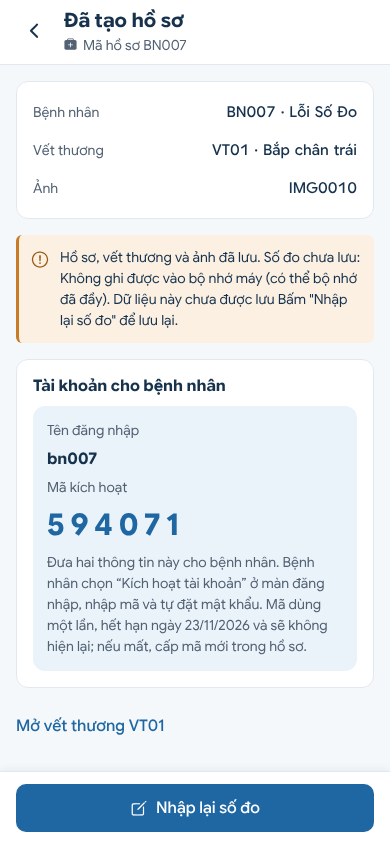
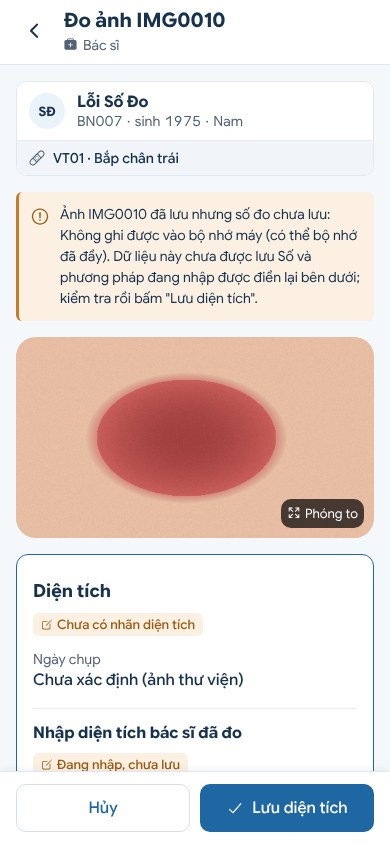
Benh nhan moi tu anh: mo thang B05, kiem lien ket truoc khi xoa anh cho (phuong an 2)
- verifyLinked: chi xoa anh cho khi anh co dung patientId, woundId; sai thi giu anh cho, khong ghi them
- B09b bo man Da tao ho so, mo thang B05; ghi so do loi mo B11 dien san
- Kich ban moi 67 ca (them NP-33b, NP-33c); sua kich ban tb-8 theo Stage 9B
- Cap nhat 5 bao cao: DI-1, DI-2, UX-1 da duyet

Claude-Session: https://claude.ai/code/session_014o3dSirzR9zFNDyfuYFh5m

diff --git a/src/app/capture-new-patient.tsx b/src/app/capture-new-patient.tsx
@@ -4,7 +4,6 @@ import { router } from 'expo-router';
 import { useEffect, useRef, useState } from 'react';
 import { Pressable, View } from 'react-native';
 
-import { ActivationCode } from '@/components/ActivationCode';
 import { NoAccess } from '@/components/Guard';
 import { Text } from '@/components/Text';
 import { Button, Card, Chip, Choices, Field, Header, InfoRow, Muted, Notice, Screen, SectionTitle, Segmented, TextLink } from '@/components/ui';
@@ -12,11 +11,10 @@ import { confirm } from '@/lib/dialog';
 import { fmtDate, fmtDateTime } from '@/lib/format';
 import { parseArea } from '@/lib/naming';
 import { duplicateView, EMPTY_PENDING_FORM, validateNewPatientForm, type NewPatientErrors, type PendingPatientForm } from '@/lib/pendingCapture';
-import { DuplicatePatientError, useLookups, useStore, type Activation } from '@/lib/store';
+import { DuplicatePatientError, useLookups, useStore } from '@/lib/store';
 import type { Patient, Wound, WoundImage } from '@/lib/types';
 import { C, T } from '@/theme';
 
-type Done = { patient: Patient; wound: Wound; image: WoundImage; activation?: Activation; existing: boolean; labelError?: string; areaText: string; method: string };
 
 /**
  * B09b – Tạo hồ sơ từ ảnh vừa chụp (chỉ bác sĩ). Mở từ B10 ở luồng "Chụp cho bệnh nhân mới", hoặc từ thẻ "Ảnh chờ tạo hồ sơ" ở B09.
@@ -31,7 +29,7 @@ export default function CaptureNewPatient() {
   const [err, setErr] = useState<string | null>(null);
   const [busy, setBusy] = useState(false);
   const lock = useRef(false);
-  const [done, setDone] = useState<Done | null>(null);
+  const [done, setDone] = useState(false);
   const [dup, setDup] = useState<Patient | null>(null);
   const [dupWound, setDupWound] = useState('');
 
@@ -45,30 +43,6 @@ export default function CaptureNewPatient() {
   }, [form, heldId, done]);
 
   if (me?.role !== 'doctor') return <NoAccess />;
-
-  if (done) {
-    const goWound = () => router.replace({ pathname: '/wounds/[id]', params: { id: done.wound.id } });
-    return (
-      <Screen header={<Header back title={done.existing ? 'Đã gắn ảnh vào hồ sơ' : 'Đã tạo hồ sơ'} subtitle={`Mã hồ sơ ${done.patient.code}`} />}
-        footer={done.labelError
-          ? <Button label="Nhập lại số đo" icon="create-outline" onPress={() => router.replace({ pathname: '/images/[id]', params: { id: done.image.id, nhapLai: done.areaText, phuongPhap: done.method, loi: done.labelError } })} />
-          : <Button label={`Mở vết thương ${done.wound.code}`} icon="arrow-forward" onPress={goWound} />}>
-        <Card>
-          <InfoRow label="Bệnh nhân" value={`${done.patient.code} · ${done.patient.name}`} />
-          <InfoRow label="Vết thương" value={`${done.wound.code} · ${done.wound.location}`} />
-          <InfoRow label="Ảnh" value={done.image.id} />
-        </Card>
-        {done.labelError ? <Notice tone="amber">{`Hồ sơ, vết thương và ảnh đã lưu. Số đo chưa lưu: ${done.labelError} Bấm "Nhập lại số đo" để lưu lại.`}</Notice> : null}
-        {done.activation ? (
-          <Card>
-            <Text style={{ fontWeight: '700', color: C.text }}>Tài khoản cho bệnh nhân</Text>
-            <ActivationCode activation={done.activation} />
-          </Card>
-        ) : null}
-        {done.labelError ? <TextLink label={`Mở vết thương ${done.wound.code}`} onPress={goWound} /> : null}
-      </Screen>
-    );
-  }
 
   if (!held) {
     return (
@@ -94,6 +68,15 @@ export default function CaptureNewPatient() {
     catch (e) { return e instanceof Error ? e.message : String(e); }
   };
 
+  // Lưu xong (hồ sơ, vết, ảnh đã ghi và đã kiểm liên kết): mở thẳng B05 của vết thương (đặc tả bước 10, người dùng chọn 16/11/2026).
+  // Ghi số đo lỗi thì mở B11 của đúng ảnh, điền sẵn số đo để lưu lại (như B10). Mã kích hoạt không hiện ở luồng này;
+  // tài khoản bệnh nhân vẫn được tạo như B03, bác sĩ cấp mã ở hồ sơ (B04, "Cấp mã kích hoạt").
+  const finish = (r: { wound: Wound; image: WoundImage }, labelError?: string) => {
+    setDone(true);
+    if (labelError) router.replace({ pathname: '/images/[id]', params: { id: r.image.id, nhapLai: held.areaText, phuongPhap: held.method, loi: labelError } });
+    else router.replace({ pathname: '/wounds/[id]', params: { id: r.wound.id } });
+  };
+
   const create = async () => {
     if (lock.current || busy) return;
     const v = validateNewPatientForm(form);
@@ -103,7 +86,7 @@ export default function CaptureNewPatient() {
       await updatePendingForm(form).catch(() => {});
       const r = await commitPendingCapture({ kind: 'new', form });
       const labelError = r.reused ? undefined : await applyLabel(r.image);
-      setDone({ ...r, existing: !!r.reused, labelError, areaText: held.areaText, method: held.method });
+      finish(r, labelError);
     } catch (e) {
       if (e instanceof DuplicatePatientError) { setDup(e.duplicate); setDupWound(''); setErr(null); }
       else setErr(`${e instanceof Error ? e.message : String(e)} Ảnh và thông tin đã nhập vẫn giữ nguyên, có thể bấm lưu lại.`);
@@ -128,7 +111,7 @@ export default function CaptureNewPatient() {
         try {
           const r = await commitPendingCapture(dupWound === 'new' ? { kind: 'existing', patientId: dup.id, woundLocation: newLoc } : { kind: 'existing', patientId: dup.id, woundId: dupWound });
           const labelError = r.reused ? undefined : await applyLabel(r.image);
-          setDone({ ...r, existing: true, labelError, areaText: held.areaText, method: held.method });
+          finish(r, labelError);
         } catch (e) { setErr(`${e instanceof Error ? e.message : String(e)} Ảnh vẫn chờ, chưa gắn vào hồ sơ nào.`); }
         finally { lock.current = false; setBusy(false); }
       })();

diff --git a/src/lib/store.tsx b/src/lib/store.tsx
@@ -15,7 +15,7 @@ import { CLOSURE_CONFIRM_DAYS, addDays, isScheduled, localDay } from './course';
 import { CARE_ITEMS, LIFECYCLE } from './maintenance';
 import { buildFilename } from './naming';
 import { archiveBlocker, isArchived, splitDoctorPatientPatch, validatePatientEdit, validateWoundLocation } from './patientRecord';
-import { committedImageOf, EMPTY_PENDING_FORM, findPhoneDuplicate, isPendingCapture, validateNewPatientForm, type PendingCapture, type PendingPatientForm } from './pendingCapture';
+import { committedImageOf, EMPTY_PENDING_FORM, verifyLinked, findPhoneDuplicate, isPendingCapture, validateNewPatientForm, type PendingCapture, type PendingPatientForm } from './pendingCapture';
 import { createSeed, DEMO_ASSETS } from './seed';
 import type {
   Account, AppData, Device, DeviceLifecycle, DeviceLinkLog, DeviceSession, Evaluation, Patient, SessionNote, SymptomReport, TreatmentPlan, Wound, WoundImage,
@@ -631,8 +631,10 @@ export function StoreProvider({ children }: { children: ReactNode }) {
       const held = mine(actor.id);
       if (!held) throw new Error('Không còn ảnh chờ gắn hồ sơ. Chụp lại từ màn Chụp ảnh.');
       // Ảnh này đã được ghi ở lần trước (ví dụ ghi xong nhưng chưa kịp xóa bản chờ): không tạo lần hai, trả lại bản đã có.
-      const already = committedImageOf(dataRef.current, held);
-      if (already) {
+      if (committedImageOf(dataRef.current, held)) {
+        // Chỉ xóa ảnh chờ khi ảnh đã có liên kết đúng (vết tồn tại, cùng hồ sơ); sai liên kết thì giữ ảnh chờ và báo, không ghi thêm.
+        const already = verifyLinked(dataRef.current, held.capture.captureId);
+        if (!already) throw new Error('Ảnh của lần chụp này đã có trong dữ liệu nhưng liên kết hồ sơ, vết thương chưa đúng. Ảnh chờ vẫn giữ; không ghi thêm bản nào.');
         const w = dataRef.current.wounds.find(x => x.id === already.woundId)!;
         const p = dataRef.current.patients.find(x => x.id === already.patientId)!;
         await clearPendingStorage(held);
@@ -719,6 +721,11 @@ export function StoreProvider({ children }: { children: ReactNode }) {
         };
       });
       written.length = 0;
+      // Xác nhận lại trên dữ liệu vừa ghi: ảnh có đúng patient_id, wound_id, vết thuộc đúng hồ sơ. Chưa xác nhận được thì giữ ảnh chờ;
+      // lần bấm lại sẽ nhận ra ảnh theo captureId (không tạo bản ghi thứ hai).
+      if (!verifyLinked(dataRef.current, held.capture.captureId, { patientId: patient.id, woundId: wound.id })) {
+        throw new Error('Đã ghi nhưng chưa xác nhận được ảnh gắn đúng hồ sơ và vết thương. Ảnh chờ vẫn giữ; bấm lưu lại để kiểm tra, không tạo bản ghi trùng.');
+      }
       await clearPendingStorage(held);
       return { patient, wound, image, activation };
     } catch (e) {

diff --git a/src/lib/pendingCapture.test.ts b/src/lib/pendingCapture.test.ts
@@ -1,7 +1,7 @@
 // Chạy: node src/lib/pendingCapture.test.ts
 // Luồng "Chụp cho bệnh nhân mới": so trùng hồ sơ theo đúng quy tắc của addPatient, kiểm biểu mẫu, khóa chống ghi lặp, đếm bộ lọc B09.
 import assert from 'node:assert/strict';
-import { activeFilterCount, committedImageOf, duplicateView, EMPTY_PENDING_FORM, findPhoneDuplicate, isPendingCapture, validateNewPatientForm } from './pendingCapture.ts';
+import { activeFilterCount, committedImageOf, verifyLinked, duplicateView, EMPTY_PENDING_FORM, findPhoneDuplicate, isPendingCapture, validateNewPatientForm } from './pendingCapture.ts';
 
 const P = (x: object) => ({ id: 'p-1', code: 'BN001', name: 'Nguyễn Văn A', birthYear: 1958, sex: 'Nam', phone: '09xx xxx 001', doctorId: 'u-bs1', researchConsent: true, createdAt: '2026-10-01', ...x }) as never;
 const all = [P({}), P({ id: 'p-9', code: 'BN009', name: 'Người Khác', phone: '0933 444 555', doctorId: 'u-bs2' }), P({ id: 'p-8', code: 'BN008', phone: '', doctorId: 'u-bs1' })];
@@ -39,6 +39,17 @@ assert.ok(validateNewPatientForm(f({ name: 'A', birthYear: '1970', woundLocation
 const cap = { capture: { captureId: 'CAP-1' } } as never;
 assert.equal(committedImageOf({ images: [{ id: 'IMG1', capture: { captureId: 'CAP-1' } }] } as never, cap)?.id, 'IMG1');
 assert.equal(committedImageOf({ images: [{ id: 'IMG1', capture: { captureId: 'CAP-2' } }, { id: 'IMG0' }] } as never, cap), undefined);
+
+// Xác nhận liên kết trước khi xóa ảnh chờ: ảnh có captureId, vết tồn tại và cùng hồ sơ, đúng patient_id và wound_id mong đợi.
+const D = { patients: [{ id: 'p-1' }, { id: 'p-2' }], wounds: [{ id: 'w-1', patientId: 'p-1' }, { id: 'w-2', patientId: 'p-2' }], images: [{ id: 'IMG1', woundId: 'w-1', patientId: 'p-1', capture: { captureId: 'CAP-1' } }] } as never;
+assert.equal(verifyLinked(D, 'CAP-1')?.id, 'IMG1');
+assert.equal(verifyLinked(D, 'CAP-1', { patientId: 'p-1', woundId: 'w-1' })?.id, 'IMG1');
+assert.equal(verifyLinked(D, 'CAP-1', { patientId: 'p-2', woundId: 'w-1' }), null);
+assert.equal(verifyLinked(D, 'CAP-1', { patientId: 'p-1', woundId: 'w-2' }), null);
+assert.equal(verifyLinked(D, 'CAP-9'), null);
+assert.equal(verifyLinked({ ...(D as object), images: [{ id: 'IMG1', woundId: 'w-2', patientId: 'p-1', capture: { captureId: 'CAP-1' } }] } as never, 'CAP-1'), null, 'gắn chéo hồ sơ');
+assert.equal(verifyLinked({ ...(D as object), wounds: [] } as never, 'CAP-1'), null, 'vết không tồn tại');
+assert.equal(verifyLinked({ ...(D as object), patients: [] } as never, 'CAP-1'), null, 'hồ sơ không tồn tại');
 
 // Ảnh chờ đọc từ bộ nhớ máy: thiếu trường thì bỏ qua.
 const good = { id: 'CHO-1', doctorId: 'u-bs1', uri: 'data:x', captureDate: '2026-11-16', capture: { captureId: 'CAP-1' }, form: EMPTY_PENDING_FORM };

diff --git a/src/lib/pendingCapture.ts b/src/lib/pendingCapture.ts
@@ -88,6 +88,19 @@ export function committedImageOf(d: Pick<AppData, 'images'>, pending: Pick<Pendi
   return d.images.find((im) => im.capture?.captureId === pending.capture.captureId);
 }
 
+/**
+ * Ảnh của lần chụp này đã nằm trong dữ liệu và liên kết đúng chưa: ảnh có captureId này, vết của ảnh tồn tại và thuộc đúng hồ sơ của ảnh,
+ * hồ sơ tồn tại; nếu có `expect` thì patient_id, wound_id phải đúng như mong đợi. Chỉ khi hàm này trả ảnh thì mới được xóa ảnh chờ.
+ */
+export function verifyLinked(d: Pick<AppData, 'images' | 'wounds' | 'patients'>, captureId: string, expect?: { patientId: string; woundId: string }): WoundImage | null {
+  const im = d.images.find((x) => x.capture?.captureId === captureId);
+  if (!im) return null;
+  const w = d.wounds.find((x) => x.id === im.woundId);
+  if (!w || w.patientId !== im.patientId || !d.patients.some((x) => x.id === im.patientId)) return null;
+  if (expect && (im.patientId !== expect.patientId || im.woundId !== expect.woundId)) return null;
+  return im;
+}
+
 /** Bản chờ đọc từ bộ nhớ máy có đủ trường dùng được không (dữ liệu cũ hoặc hỏng thì bỏ qua, không làm hỏng màn). */
 export function isPendingCapture(x: unknown): x is PendingCapture {
   const p = x as PendingCapture | null;

diff --git a/docs/benh-nhan-moi-tu-anh/PLASMA_PRO_NEW_PATIENT_FROM_WOUND_CAPTURE_TEST_REPORT.md b/docs/benh-nhan-moi-tu-anh/PLASMA_PRO_NEW_PATIENT_FROM_WOUND_CAPTURE_TEST_REPORT.md
@@ -9,17 +9,17 @@ Ngày: 16/11/2026. Môi trường: bản dựng web tĩnh (`npx expo export -p w
 | TypeScript (`npx tsc --noEmit`) | Sạch |
 | Lint (`npx expo lint`) | Sạch |
 | `npm test` (52 tệp, thêm `pendingCapture.test.ts`, ca 9 của `persistence.test.ts`, `architecture.test.cjs` 171 tệp) | Đạt |
-| Kịch bản mới `scripts/kiem-thu-benh-nhan-moi-tu-anh.cjs` | **65/65 đạt** |
-| Hồi quy 25 kịch bản cũ, trước và sau | **Sau giống hệt trước**: 841 ca đạt; 4 ca lỗi của `kiem-thu-dot-9` và lần dừng của `kiem-thu-tb-8` có ở cả hai bản (mục 4) |
+| Kịch bản mới `scripts/kiem-thu-benh-nhan-moi-tu-anh.cjs` | **67/67 đạt** (bản phương án 2) |
+| Hồi quy 25 kịch bản cũ, trước và sau | **Sau giống hệt trước**, không ca nào lỗi sau khi sửa môi trường dựng dot-9 và kịch bản tb-8 (mục 4) |
 
-## 2. Kịch bản mới (65 ca)
+## 2. Kịch bản mới (67 ca)
 
 | Nhóm | Ca | Nội dung |
 |---|---|---|
 | A. B09 hai lối vào | NP-01 đến NP-04 | Mặc định "Chọn bệnh nhân hiện có", nội dung lối cũ còn đủ; lối mới; B10 ở luồng mới không có thanh bệnh nhân |
-| B. Thành công và quan hệ dữ liệu | NP-05 đến NP-16 | Ảnh chờ hiện ở biểu mẫu; ảnh chờ không có id và không nằm trong dữ liệu chính; kiểm biểu mẫu; đúng 1 hồ sơ, 1 tài khoản, 1 vết VT01, 1 ảnh; `wound.patientId`, `image.woundId`, `image.patientId`, tên tệp; siêu dữ liệu chụp giữ nguyên; số đo ghi sau; không tạo đánh giá, đợt, thiết bị; ảnh chờ đã xóa; không lỗi quan hệ; mở B05 đúng vết; quay lại B10 về bước 1 |
+| B. Thành công và quan hệ dữ liệu | NP-05 đến NP-16 | Ảnh chờ hiện ở biểu mẫu; ảnh chờ không có id và không nằm trong dữ liệu chính; kiểm biểu mẫu; đúng 1 hồ sơ, 1 tài khoản, 1 vết VT01, 1 ảnh; `wound.patientId`, `image.woundId`, `image.patientId`, tên tệp; siêu dữ liệu chụp giữ nguyên; số đo ghi sau; không tạo đánh giá, đợt, thiết bị; ảnh chờ đã xóa; không lỗi quan hệ; mở thẳng B05 đúng vết, không còn màn trung gian; quay lại B10 về bước 1 |
 | C. Quay lại, giữ nháp, mở lại, hủy | NP-17 đến NP-25 | Quay lại B10 giữ ảnh và số đo; biểu mẫu giữ họ tên; "Để sau"; nút luồng mới khóa khi có ảnh chờ; store từ chối ảnh chờ thứ hai; tải lại trang vẫn còn ảnh chờ và họ tên; Hủy hỏi trước, xác nhận thì bỏ ảnh và không tạo gì |
-| D. Bấm lặp, lỗi ghi, lỗi một phần, ghi lặp | NP-26 đến NP-34 | 5 lần chạm liền; hai lời gọi store chồng nhau; lỗi ghi bộ nhớ máy (QuotaExceeded) không để lại bản ghi, ảnh và họ tên giữ, lưu lại tạo đúng 1; ghi số đo lỗi sau khi tạo hồ sơ: báo rõ, mở B11 điền sẵn; ảnh chờ còn sót sau khi đã ghi không tạo hồ sơ thứ hai |
+| D. Bấm lặp, lỗi ghi, lỗi một phần, ghi lặp | NP-26 đến NP-34, NP-33b, NP-33c | 5 lần chạm liền; hai lời gọi store chồng nhau; lỗi ghi bộ nhớ máy (QuotaExceeded) không để lại bản ghi, ảnh và họ tên giữ, lưu lại tạo đúng 1; ghi số đo lỗi sau khi tạo hồ sơ: mở B11 của ảnh, báo rõ, điền sẵn; ảnh chờ còn sót sau khi đã ghi không tạo hồ sơ thứ hai; ảnh đã có nhưng liên kết sai thì giữ ảnh chờ, không ghi thêm, sửa xong lưu lại được |
 | E. Hồ sơ có thể trùng | NP-35 đến NP-40 | Trùng hồ sơ của mình: hiện mã, họ tên, năm sinh; không tạo; không tự gắn; xác nhận mới gắn đúng vết đã chọn; trùng hồ sơ bác sĩ khác: chỉ mã, không cho gắn; sửa số thì hết cảnh báo |
 | F. Phân quyền | NP-41 đến NP-48 | Bác sĩ khác không thấy, không dùng được ảnh chờ, không gắn được vào hồ sơ không phụ trách; bệnh nhân, quản trị: màn "Không có quyền" và store từ chối; bác sĩ một đăng nhập lại vẫn còn ảnh chờ |
 | G. Bộ lọc B09 | FL-01 đến FL-10 | Mở, đóng; đóng không đổi kết quả; tóm tắt và số bộ lọc khi đóng; bệnh nhân đã chọn giữ; mở lại còn giá trị; tìm theo mã; không có kết quả; lối bệnh nhân mới vẫn thấy; chuyển lối vào vẫn giữ; `aria-expanded` |
@@ -40,7 +40,7 @@ Kết quả từng ca: `ket-qua/ket-qua-benh-nhan-moi-tu-anh.json`. Ảnh: `anh/
 | 7 | Tạo vết xong nhưng gắn ảnh lỗi | NP-28 (cùng một lần ghi), NP-31, NP-32 (số đo) | Vết và ảnh không tách được trong kiến trúc mới; phần tách duy nhất là số đo, đã kiểm |
 | 8 | Tải ảnh xong nhưng tạo hồ sơ lỗi | NP-28, NP-29 | Đạt trên web; xóa tệp đã chép trên máy thật chưa thử |
 | 9 | Có thể trùng hồ sơ | NP-35 đến NP-40 | Đạt |
-| 10 | Thoát giữa chừng rồi mở lại | NP-22, NP-23, NP-33, NP-48 | Đạt (tải lại trang thay cho mở lại ứng dụng) |
+| 10 | Thoát giữa chừng rồi mở lại | NP-22, NP-23, NP-33, NP-33b, NP-33c, NP-48 | Đạt (tải lại trang thay cho mở lại ứng dụng) |
 
 ## 4. Hồi quy
 
@@ -51,7 +51,7 @@ Kết quả từng ca: `ket-qua/ket-qua-benh-nhan-moi-tu-anh.json`. Ảnh: `anh/
 | kiem-thu-9b | 18/0 | 18/0 |
 | kiem-thu-9c-bcd | 21/0 | 21/0 |
 | kiem-thu-dot-8, dot-10, dot-11, dot-12 | 33, 24, 34, 53 đạt | giống |
-| kiem-thu-dot-9 | 9 đạt, 4 lỗi | giống |
+| kiem-thu-dot-9 | 13/0 (bản dựng có tiêm AR) | 13/0 |
 | kiem-thu-giao-dien | 41/0 | 41/0 |
 | kiem-thu-n05 | 20/0 | 20/0 |
 | kiem-thu-p0 | 47/0 | 47/0 |
@@ -59,11 +59,13 @@ Kết quả từng ca: `ket-qua/ket-qua-benh-nhan-moi-tu-anh.json`. Ảnh: `anh/
 | kiem-thu-p2 | 238/0 | 238/0 |
 | kiem-thu-quan-ly-ho-so (tạo, sửa hồ sơ) | 55/0 | 55/0 |
 | kiem-thu-tb-2 đến tb-7 (tb-3 là B10) | 22, 20, 31, 14, 21, 30 đạt | giống |
-| kiem-thu-tb-8 | 34 đạt rồi dừng ở "Bắt đầu điều trị" | giống |
+| kiem-thu-tb-8 (kịch bản đã sửa) | 60/0 | 60/0 |
 
-Hai điểm có từ trước, không do PR này:
-- `kiem-thu-dot-9` (AR ở B10): 4 lỗi ở cả hai bản, kể cả khi dựng bản có tiêm dữ liệu AR (`scripts/tiem-ar-kiem-thu.cjs`). Ca D9-08, D9-10 cho thấy luồng lưu của B10 vẫn ghi đúng 1 ảnh, đúng số và phương pháp bác sĩ; các ca lỗi là phần hiển thị ước lượng AR. Cần xem riêng ở PR 64 hoặc sớm hơn.
-- `kiem-thu-tb-8`: dừng ở cùng bước ở cả hai bản (kịch bản phụ thuộc thiết bị giả lập).
+Hai điểm lần đầu báo là lỗi, sau khi điều tra không phải lỗi ứng dụng:
+- `kiem-thu-dot-9` (AR ở B10): 4 ca lỗi do môi trường kiểm thử. Bản dựng từ thư mục làm việc phụ không mang dữ liệu AR tiêm vào (`scripts/tiem-ar-kiem-thu.cjs`), nên các ca hiển thị ước lượng AR không có gì để kiểm. Dựng lại đúng cách (tiêm ở thư mục chính, xuất bản web, trả lại mã): 13/13 ở cả hai bản.
+- `kiem-thu-tb-8`: kịch bản cũ hơn Stage 9B. Stage 9B (S8-B07) cố ý ẩn nút "Bắt đầu điều trị" của máy giả lập khi chưa có liệu trình, và (S8-B10) đổi nhãn ô ở B11 thành "Diện tích bác sĩ đo (cm²)". Kịch bản đã sửa hai bước này (ca S8-T-01b kiểm nút bị ẩn; ô B11 tìm theo nhãn mới); mã ứng dụng không đổi. Kết quả 60/0 ở cả hai bản.
+
+Bản phương án 2 (mở thẳng B05, kiểm liên kết trước khi xóa ảnh chờ) chạy lại `npm test`, `kiem-thu-quan-ly-ho-so` 55/55, `kiem-thu-tb-3` 20/20, `kiem-thu-p0` 47/0, `kiem-thu-p1-05-06` 20/0, `kiem-thu-dot-12` 53/53, `kiem-thu-giao-dien` 41/41 (đều đạt).
 
 Hồi quy luồng tạo hồ sơ cũ (B03): `kiem-thu-quan-ly-ho-so` 55/55 và `kiem-thu-giao-dien` 41/41 không đổi. Hồi quy chụp cho hồ sơ có sẵn: `kiem-thu-tb-3`, `p0`, `p1-05-06`, `dot-12` không đổi. Giao diện bệnh nhân, quản trị: `tb-5`, `tb-6`, `n05`, `p2` không đổi.
 

diff --git a/docs/benh-nhan-moi-tu-anh/PLASMA_PRO_NEW_PATIENT_FROM_WOUND_CAPTURE_IMPLEMENTATION_REPORT.md b/docs/benh-nhan-moi-tu-anh/PLASMA_PRO_NEW_PATIENT_FROM_WOUND_CAPTURE_IMPLEMENTATION_REPORT.md
@@ -6,15 +6,16 @@ Ngày: 16/11/2026. Nhánh `feat/benh-nhan-moi-tu-anh`, gốc là PR 64 (`ui/stag
 
 | Tệp | Loại | Nội dung |
 |---|---|---|
-| `src/lib/pendingCapture.ts` | mới | Kiểu `PendingCapture`, `PendingPatientForm`; `findPhoneDuplicate` (quy tắc trùng của `addPatient`); `duplicateView` (thông tin hiện theo quyền); `validateNewPatientForm`; `committedImageOf` (khóa `captureId`); `isPendingCapture`; `activeFilterCount`. Hàm thuần. |
+| `src/lib/pendingCapture.ts` | mới | Kiểu `PendingCapture`, `PendingPatientForm`; `findPhoneDuplicate` (quy tắc trùng của `addPatient`); `duplicateView` (thông tin hiện theo quyền); `validateNewPatientForm`; `committedImageOf` (khóa `captureId`); `verifyLinked` (ảnh có đúng `patientId`, `woundId`, vết thuộc đúng hồ sơ); `isPendingCapture`; `activeFilterCount`. Hàm thuần. |
 | `src/lib/pendingCapture.test.ts` | mới | Kiểm thử đơn vị các hàm trên; thêm vào `npm test`. |
 | `src/lib/persistence.ts` | sửa | `PENDING_CAPTURE_KEY`, `loadPending`, `savePending`, `clearPending` (cùng hàng ghi với dữ liệu chính). |
 | `src/lib/persistence.test.ts` | sửa | Ca 9: ảnh chờ ghi ở khóa riêng, lỗi ghi được báo, JSON hỏng trả null. |
 | `src/lib/store.tsx` | sửa | Trạng thái ảnh chờ theo bác sĩ (đọc lúc mở ứng dụng); `holdPendingCapture`, `updatePendingForm`, `discardPendingCapture`, `commitPendingCapture`; `DuplicatePatientError`; `removeImageFile`; `addPatient` dùng `findPhoneDuplicate` (cùng quy tắc, cùng câu báo); `resetDemo` bỏ cả ảnh chờ. |
 | `src/app/guided-capture.tsx` | sửa | Tham số `moi=1`: không cần `woundId`; thông báo "Chụp cho bệnh nhân mới" thay thanh bệnh nhân; bước 3 có "Tiếp: tạo hồ sơ bệnh nhân" (giữ ảnh chờ, mở B09b). Phần dựng siêu dữ liệu tách thành `metadataFor` dùng chung, nội dung không đổi. Ảnh đã chuyển sang chờ thì rời màn không hỏi; ảnh chờ được gắn hoặc bỏ thì màn về bước 1. |
-| `src/app/capture-new-patient.tsx` | mới | B09b: ảnh chờ, biểu mẫu (trường như B03, vị trí vết bắt buộc), thẻ trùng hồ sơ, Hủy, Để sau, màn kết quả (mã kích hoạt, mở vết thương, nhập lại số đo). Ghi biểu mẫu vào ảnh chờ sau 400 ms không gõ. |
+| `src/app/capture-new-patient.tsx` | mới | B09b: ảnh chờ, biểu mẫu (trường như B03, vị trí vết bắt buộc), thẻ trùng hồ sơ, Hủy, Để sau. Lưu xong mở thẳng B05 của vết; ghi số đo lỗi thì mở B11 của ảnh, điền sẵn số đo. Ghi biểu mẫu vào ảnh chờ sau 400 ms không gõ. |
 | `src/app/capture.tsx` | sửa | Thanh hai lối vào; thẻ ảnh chờ (Tiếp tục, Bỏ ảnh); lối mới khóa khi đang có ảnh chờ; bộ lọc thu gọn (mặc định mở). |
-| `scripts/kiem-thu-benh-nhan-moi-tu-anh.cjs` | mới | 65 ca Playwright trên bản web. |
+| `scripts/kiem-thu-benh-nhan-moi-tu-anh.cjs` | mới | 67 ca Playwright trên bản web. |
+| `scripts/kiem-thu-tb-8.cjs` | sửa | Hai bước cũ không còn đúng sau Stage 9B (mục 3 báo cáo kiểm thử); không đổi mã ứng dụng. |
 | `package.json` | sửa | Thêm `pendingCapture.test.ts` vào `npm test`. |
 
 Không đổi: `addImage`, `labelImage`, `addWound`, `updatePatient`, các màn bệnh nhân, quản trị, B02, B03 (giao diện), B05, B11, `src/lib/capture/*`, `src/lib/ai/*`, `src/lib/device/*`, `types.ts`, `integrity.ts`, `writePath.ts`.
@@ -37,7 +38,7 @@ Quyền tạo hồ sơ ở B03 (`addPatient`) giữ nguyên.
 
 - Lối "Chụp cho bệnh nhân mới" từ B09; chụp (chọn ảnh thư viện trên web), kiểm tra ảnh, nhập số đo trước khi có hồ sơ.
 - Ảnh chờ ngoài dữ liệu chính, qua được quay lại, rời màn, tải lại trang (mở lại ứng dụng).
-- Biểu mẫu có ảnh; tạo hồ sơ, tài khoản, vết, ảnh trong một lần ghi; mở vết thương.
+- Biểu mẫu có ảnh; tạo hồ sơ, tài khoản, vết, ảnh trong một lần ghi; kiểm lại liên kết `patientId`, `woundId` trên dữ liệu vừa ghi rồi mới xóa ảnh chờ; mở thẳng B05 (phương án 2, người dùng chọn 16/11/2026).
 - Quan hệ patient, wound, image đúng; siêu dữ liệu chụp giữ nguyên; số đo ghi sau bằng `labelImage`.
 - Chống bấm lặp (màn, store, `captureId`); lỗi ghi không để lại bản ghi; ghi số đo lỗi có cách nhập lại.
 - Trùng số điện thoại: xem hồ sơ trùng theo quyền, gắn vào hồ sơ có sẵn chỉ sau khi chọn vết và xác nhận.
@@ -51,9 +52,13 @@ Quyền tạo hồ sơ ở B03 (`addPatient`) giữ nguyên.
 - Cảnh báo "Ảnh chỉ giữ trong lần mở ứng dụng này" khi ghi ảnh chờ lỗi: có mã, chưa có ca tự động.
 - Trình đọc màn hình trên máy thật.
 
-### Cần duyệt API hoặc lược đồ
+### Đã duyệt (người dùng, 16/11/2026)
 
-- DI-1 khóa lưu ảnh chờ mới (ngoài `AppData`), DI-2 hàm store mới. Xem báo cáo toàn vẹn dữ liệu mục 5. Không đổi lược đồ `AppData`.
+- DI-1 khóa lưu ảnh chờ riêng (ngoài `AppData`), DI-2 hàm ghi mới ở store. Không đổi lược đồ `AppData`.
+- UX-1: phương án 2, mở thẳng B05. Mã kích hoạt không hiện ở luồng này; tài khoản bệnh nhân vẫn được tạo như B03, bác sĩ cấp mã ở B04 ("Cấp lại mã kích hoạt"). Luồng mã kích hoạt của B03, B04 không đổi.
+
+### Cần duyệt
+
 - Đề xuất endpoint và ràng buộc cho backend (báo cáo toàn vẹn dữ liệu mục 6): chưa đưa vào tài liệu đề xuất backend, chờ đồng ý.
 
 ### Bị chặn bởi kiến trúc hiện có
@@ -65,8 +70,7 @@ Quyền tạo hồ sơ ở B03 (`addPatient`) giữ nguyên.
 
 - Dọn tệp ảnh chờ mồ côi khi mở ứng dụng.
 - Ghi nhật ký ai tạo hồ sơ từ ảnh (chưa có nhật ký thao tác chung).
-- Mở thẳng B05 sau khi tạo (UX-1, chờ người dùng chọn chỗ hiện mã kích hoạt).
 
 ## 4. Kết luận
 
-Theo mục 12, tính năng đạt các tiêu chí nghiệm thu trên bản web (quan hệ dữ liệu và phục hồi lỗi được kiểm trên dữ liệu thật của store và bộ nhớ trình duyệt, không chỉ giao diện). Chưa ghi COMPLETE vì còn các mục "chưa kiểm đủ" trên máy thật và hai mục cần duyệt (DI-1, DI-2). Trạng thái: **IMPLEMENTED, VERIFIED ON WEB, PENDING DEVICE TEST AND APPROVAL**.
+Theo mục 12, tính năng đạt các tiêu chí nghiệm thu trên bản web (quan hệ dữ liệu và phục hồi lỗi được kiểm trên dữ liệu thật của store và bộ nhớ trình duyệt, không chỉ giao diện). DI-1, DI-2, UX-1 đã được duyệt. Chưa ghi COMPLETE vì còn các mục "chưa kiểm đủ" trên máy thật. Trạng thái: **IMPLEMENTED, VERIFIED ON WEB, PENDING DEVICE TEST**.

diff --git a/docs/benh-nhan-moi-tu-anh/PLASMA_PRO_NEW_PATIENT_FROM_WOUND_CAPTURE_DATA_INTEGRITY_REPORT.md b/docs/benh-nhan-moi-tu-anh/PLASMA_PRO_NEW_PATIENT_FROM_WOUND_CAPTURE_DATA_INTEGRITY_REPORT.md
@@ -18,13 +18,13 @@ Ngày: 16/11/2026. Áp dụng cho dữ liệu cục bộ trên một máy (demo 
 `commitPendingCapture(target)` (`src/lib/store.tsx`):
 
 1. Kiểm vai trò bác sĩ (tài khoản không khóa) và có ảnh chờ của chính bác sĩ.
-2. Nếu dữ liệu đã có ảnh mang cùng `captureId` (lần trước ghi xong mà chưa kịp xóa ảnh chờ): không ghi gì, trả lại hồ sơ, vết, ảnh đã có, xóa ảnh chờ.
+2. Nếu dữ liệu đã có ảnh mang cùng `captureId` (lần trước ghi xong mà chưa kịp xóa ảnh chờ): không ghi gì. Kiểm liên kết bằng `verifyLinked` (vết tồn tại, vết cùng hồ sơ với ảnh, hồ sơ tồn tại). Đúng thì trả lại hồ sơ, vết, ảnh đã có rồi xóa ảnh chờ; sai thì báo lỗi, giữ ảnh chờ, không ghi thêm.
 3. Hồ sơ mới: kiểm biểu mẫu, so trùng số điện thoại (ném `DuplicatePatientError`), cấp mã hồ sơ, tài khoản và mã kích hoạt như `addPatient`, vết VT01 như `addPatient`. Hồ sơ có sẵn (sau xác nhận): `requireDoctor` (bác sĩ phụ trách, không lưu trữ), vết phải thuộc hồ sơ và chưa kết thúc theo dõi, hoặc vết mới theo vị trí bác sĩ nhập.
 4. Chép tệp ảnh chờ (và tệp chiều sâu) sang tên theo `image_id`, như `addImage`.
 5. **Một `commit`**: thêm hồ sơ, tài khoản, vết, ảnh và tăng bộ đếm trong cùng một bản `AppData`. Trong hàm commit kiểm lại trùng số điện thoại, quyền, vết còn hợp lệ, mã ảnh và mã hồ sơ chưa dùng, `captureId` chưa có. Đường ghi Stage 9C kiểm quan hệ (mồ côi, gắn chéo, trùng mã) rồi ghi bền, chỉ khi ghi xong mới đổi màn hình.
-6. Thành công: xóa ảnh chờ và tệp tạm. Lỗi ở bất kỳ bước nào: không có bản ghi nào được thêm; tệp vừa chép ở bước 4 bị xóa; ảnh chờ và thông tin biểu mẫu giữ nguyên.
+6. Sau commit: `verifyLinked` trên dữ liệu vừa ghi, so đúng `patientId`, `woundId` mong đợi. **Chỉ khi xác nhận được mới xóa ảnh chờ và tệp tạm** (yêu cầu người dùng 16/11/2026). Chưa xác nhận được: báo lỗi, giữ ảnh chờ; lần bấm lại đi theo bước 2, không tạo bản thứ hai. Sau đó màn mở thẳng B05. Lỗi ở bất kỳ bước nào: không có bản ghi nào được thêm; tệp vừa chép ở bước 4 bị xóa; ảnh chờ và thông tin biểu mẫu giữ nguyên.
 
-Số đo (diện tích, phương pháp) **không** nằm trong lần ghi trên: sau khi ảnh có `image_id`, màn gọi `labelImage` như B10. Đây là cách B10 vẫn làm (ảnh trước, số đo sau) và giữ nguyên hàm ghi số đo, lịch sử nhãn. Ghi số đo lỗi: hồ sơ, vết, ảnh đã đúng và đủ; ảnh chưa có số đo; màn kết quả nói rõ và mở B11 để nhập lại (không tạo ảnh thứ hai).
+Số đo (diện tích, phương pháp) **không** nằm trong lần ghi trên: sau khi ảnh có `image_id`, màn gọi `labelImage` như B10. Đây là cách B10 vẫn làm (ảnh trước, số đo sau) và giữ nguyên hàm ghi số đo, lịch sử nhãn. Ghi số đo lỗi: hồ sơ, vết, ảnh đã đúng và đủ; ảnh chưa có số đo; màn mở B11 của ảnh, nói rõ số đo chưa lưu, điền sẵn số đo để lưu lại (không tạo ảnh thứ hai).
 
 ## 3. Đối chiếu với mục 4 của yêu cầu
 
@@ -48,12 +48,15 @@ Số đo (diện tích, phương pháp) **không** nằm trong lần ghi trên: 
 | 7. Vết tạo xong nhưng gắn ảnh lỗi | Không xảy ra được: vết và ảnh ghi trong cùng một commit. Phần ghi tách riêng duy nhất là số đo | Ghi số đo lỗi: báo "Số đo chưa lưu", mở B11 nhập lại; không ảnh trùng | NP-31, NP-32 |
 | 8. Tải ảnh lên xong nhưng tạo hồ sơ lỗi | Tương ứng: tệp ảnh đã chép (ảnh chờ, và tệp theo `image_id` ở bước 4) rồi commit lỗi | Tệp theo `image_id` bị xóa; tệp ảnh chờ giữ để thử lại; không có bản ghi mồ côi | NP-28, NP-29 (web); máy thật chưa thử |
 | 10. Thoát giữa chừng rồi mở lại | Ảnh chờ và biểu mẫu được ghi bền | B09 hiện thẻ ảnh chờ có họ tên đã nhập; "Tiếp tục tạo hồ sơ" khôi phục biểu mẫu | NP-22, NP-23 |
-| Ghi xong nhưng ứng dụng tắt trước khi xóa ảnh chờ | Ảnh chờ còn sót | Nhận ra theo `captureId`, không tạo lần hai | NP-33 |
+| Ghi xong nhưng ứng dụng tắt trước khi xóa ảnh chờ | Ảnh chờ còn sót | Nhận ra theo `captureId`, kiểm liên kết, không tạo lần hai | NP-33 |
+| Ảnh đã có theo `captureId` nhưng liên kết sai (vết không tồn tại) | Dữ liệu bị sửa ngoài ứng dụng hoặc ghi dở | Báo lỗi, giữ ảnh chờ, không ghi thêm; sửa xong bấm lại thì nhận ảnh đã có và xóa ảnh chờ | NP-33b, NP-33c |
 | Ghi ảnh chờ vào bộ nhớ máy lỗi | Ảnh chờ chỉ ở bộ nhớ của phiên | Biểu mẫu hiện cảnh báo "Ảnh chỉ giữ trong lần mở ứng dụng này" | Chưa có ca tự động |
 
-## 5. Cần duyệt
+## 5. Đã duyệt (người dùng, 16/11/2026)
 
-- **DI-1. Khóa lưu mới `plasmapro.anh-cho-ho-so.v1`** (bảng ảnh chờ theo tài khoản bác sĩ). Ngoài `AppData`, không đổi cấu trúc dữ liệu chính, nhưng là một chỗ lưu mới trên máy. Yêu cầu nói "đề xuất trước khi đổi API hoặc lược đồ"; thay đổi này không chạm lược đồ `AppData` nên đã làm, và cần người dùng xác nhận.
+Người dùng đồng ý DI-1 và DI-2, kèm điều kiện chỉ xóa ảnh chờ sau khi xác nhận liên kết (đã làm, mục 2 bước 2 và 6).
+
+- **DI-1. Khóa lưu mới `plasmapro.anh-cho-ho-so.v1`** (bảng ảnh chờ theo tài khoản bác sĩ). Ngoài `AppData`, không đổi cấu trúc dữ liệu chính, nhưng là một chỗ lưu mới trên máy. Yêu cầu nói "đề xuất trước khi đổi API hoặc lược đồ"; thay đổi này không chạm lược đồ `AppData`.
 - **DI-2. Hàm store mới `commitPendingCapture`** (và ba hàm ảnh chờ). Thêm vào giao diện store, không đổi hàm cũ. `addPatient` đổi lớp lỗi trùng sang `DuplicatePatientError` (kế thừa `Error`, cùng câu báo), B03 hiển thị không đổi.
 
 ## 6. Đề xuất cho backend (chưa làm, phạm vi đề xuất)

diff --git a/docs/benh-nhan-moi-tu-anh/PLASMA_PRO_NEW_PATIENT_FROM_WOUND_CAPTURE_UX_REPORT.md b/docs/benh-nhan-moi-tu-anh/PLASMA_PRO_NEW_PATIENT_FROM_WOUND_CAPTURE_UX_REPORT.md
@@ -8,7 +8,8 @@ Ngày: 16/11/2026. Ảnh chụp màn (bản web, 390 × 844 trừ khi ghi khác)
 B09 ─ [Chọn bệnh nhân hiện có] ─ (luồng cũ, không đổi) ─ B10 ─ lưu ─ B11
   └─ [Chụp cho bệnh nhân mới] ─ B10 (moi=1): Chụp → Kiểm tra ảnh → Nhập số đo
         └─ "Tiếp: tạo hồ sơ bệnh nhân" → ảnh vào trạng thái chờ → B09b Tạo hồ sơ từ ảnh
-              ├─ "Tạo hồ sơ và gắn ảnh" → (một lần ghi) → "Đã tạo hồ sơ" (mã kích hoạt) → "Mở vết thương VT01" → B05
+              ├─ "Tạo hồ sơ và gắn ảnh" → (một lần ghi, kiểm liên kết, xóa ảnh chờ) → B05 của VT01
+              │     └─ ghi số đo lỗi → B11 của ảnh, số đo điền sẵn
               ├─ trùng số điện thoại → thẻ "Có thể trùng hồ sơ BNxxx" → xem / gắn vào hồ sơ đó (sau xác nhận) / sửa số
               ├─ Quay lại (tiêu đề) hoặc "Xem lại ảnh ở bước trước" → B10 bước 3, ảnh và số đo còn
               ├─ "Để sau, giữ ảnh chờ ở màn Chụp ảnh" → B09, thẻ ảnh chờ
@@ -26,13 +27,13 @@ B09 ─ [Chọn bệnh nhân hiện có] ─ (luồng cũ, không đổi) ─ B1
 | Quay lại vẫn giữ ảnh | B10 vẫn ở bước "Nhập số đo" với ảnh, số đo; chip đổi thành "Ảnh chờ tạo hồ sơ"; rời B10 không hỏi bỏ dữ liệu vì ảnh đã an toàn ở trạng thái chờ. | kịch bản NP-17 đến NP-19 |
 | Lỗi tạo hồ sơ vẫn giữ ảnh và thông tin | Câu lỗi ở chân màn kết thúc bằng "Ảnh và thông tin đã nhập vẫn giữ nguyên, có thể bấm lưu lại."; ô nhập không bị xóa. | `b09b-loi-ghi-390` |
 | Chống tạo trùng do bấm lặp | Nút có trạng thái đang lưu, khóa bằng ref ở màn và khóa ở store; 5 lần chạm liền chỉ tạo 1 hồ sơ. | NP-26, NP-27 |
-| Lỗi có ý nghĩa, có cách khắc phục | Lỗi từng ô (họ tên, năm sinh, vị trí); lỗi ghi; trùng hồ sơ có thẻ riêng với hành động; ghi số đo lỗi có nút "Nhập lại số đo". | `b09b-trung-ho-so-390`, `b09b-loi-so-do-390` |
-| Không báo thành công sớm | Màn "Đã tạo hồ sơ" chỉ hiện sau khi lần ghi hồ sơ, vết, ảnh trả về thành công; ghi số đo lỗi thì màn kết quả nói rõ "Số đo chưa lưu". | `b09b-da-tao-390` |
+| Lỗi có ý nghĩa, có cách khắc phục | Lỗi từng ô (họ tên, năm sinh, vị trí); lỗi ghi; trùng hồ sơ có thẻ riêng với hành động; ghi số đo lỗi mở B11 của ảnh với câu "đã lưu nhưng số đo chưa lưu" và số đo điền sẵn. | `b09b-trung-ho-so-390`, `b09b-loi-so-do-390` |
+| Không báo thành công sớm | Chỉ chuyển sang B05 sau khi lần ghi trả về thành công và liên kết ảnh đã được kiểm; ghi số đo lỗi thì B11 nói rõ số đo chưa lưu. | `b05-sau-tao-390` |
 | Hệ thống Clinical Precision, bố cục co giãn | Chỉ dùng thành phần có sẵn (Card, Field, Segmented, Chip, Notice, Button, TextLink, InfoRow); nút chính ở chân màn; không tràn ngang ở 320, 360, 390, 768. | `b09-*`, `b09b-*` theo bề rộng |
 
 ## 3. Quyết định trải nghiệm cần người dùng xem
 
-- **UX-1. Màn "Đã tạo hồ sơ" trước khi mở vết thương.** Yêu cầu bước 10 là mở thẳng B05. Luồng giữ một màn kết quả có mã kích hoạt rồi nút "Mở vết thương VT01", vì mã kích hoạt chỉ hiện một lần (như B03); mở thẳng B05 sẽ làm bác sĩ mất mã. Nếu muốn mở thẳng, cần chỗ khác hiện mã (ví dụ thông báo trên B05).
+- **UX-1. Đã chốt (16/11/2026): mở thẳng B05** theo đặc tả gốc (phương án 2). Màn "Đã tạo hồ sơ" đã bỏ. Mã kích hoạt không hiện ở luồng này; bác sĩ cấp mã khi cần ở B04 ("Cấp lại mã kích hoạt", mã cũ hết hiệu lực). Luồng mã kích hoạt của B03, B04 không đổi.
 - **UX-2. Vị trí vết thương bắt buộc ở B09b** (ở B03 không bắt buộc). Ảnh phải thuộc một vết, và ứng dụng không được tự đặt thông tin vết.
 - **UX-3. Số đo nhập ở B10 được lưu sau khi tạo hồ sơ** bằng đúng hàm ghi số đo của B10. Biểu mẫu ghi "(lưu sau khi tạo hồ sơ)" cạnh số đo để không hiểu nhầm là đã lưu.
 - **UX-4. Một ảnh chờ cho mỗi bác sĩ.** Khi đang có ảnh chờ, nút "Chụp cho bệnh nhân mới" khóa và nêu lý do; bác sĩ tiếp tục hoặc bỏ ảnh đó trước. Cách này tránh âm thầm thay ảnh chờ.
